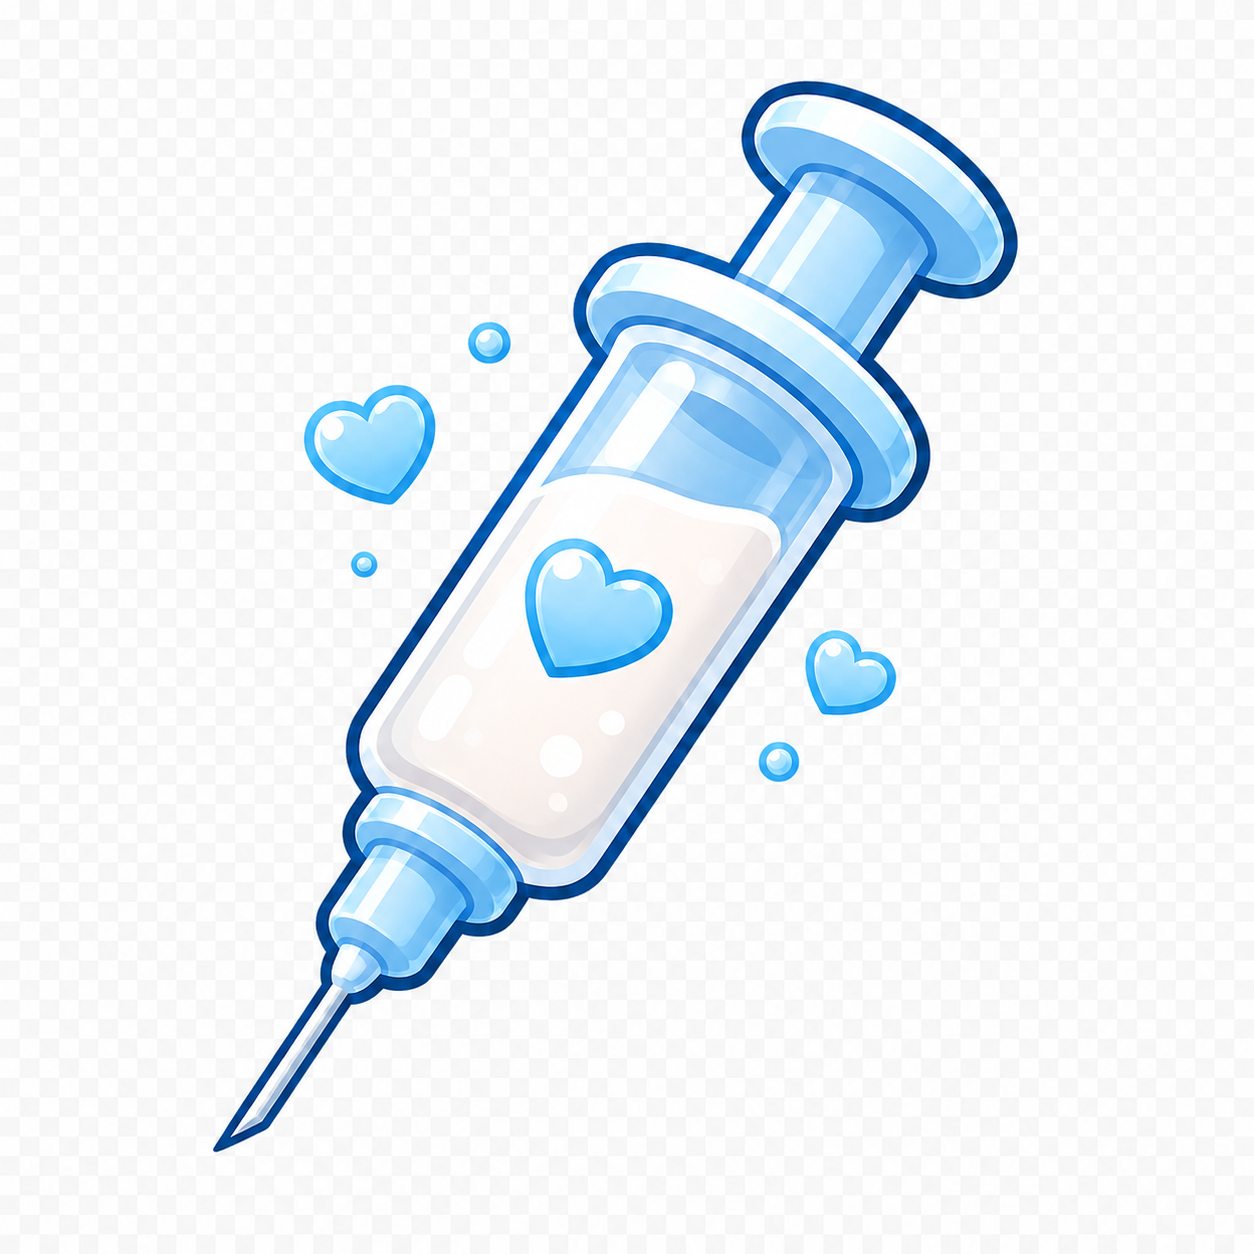
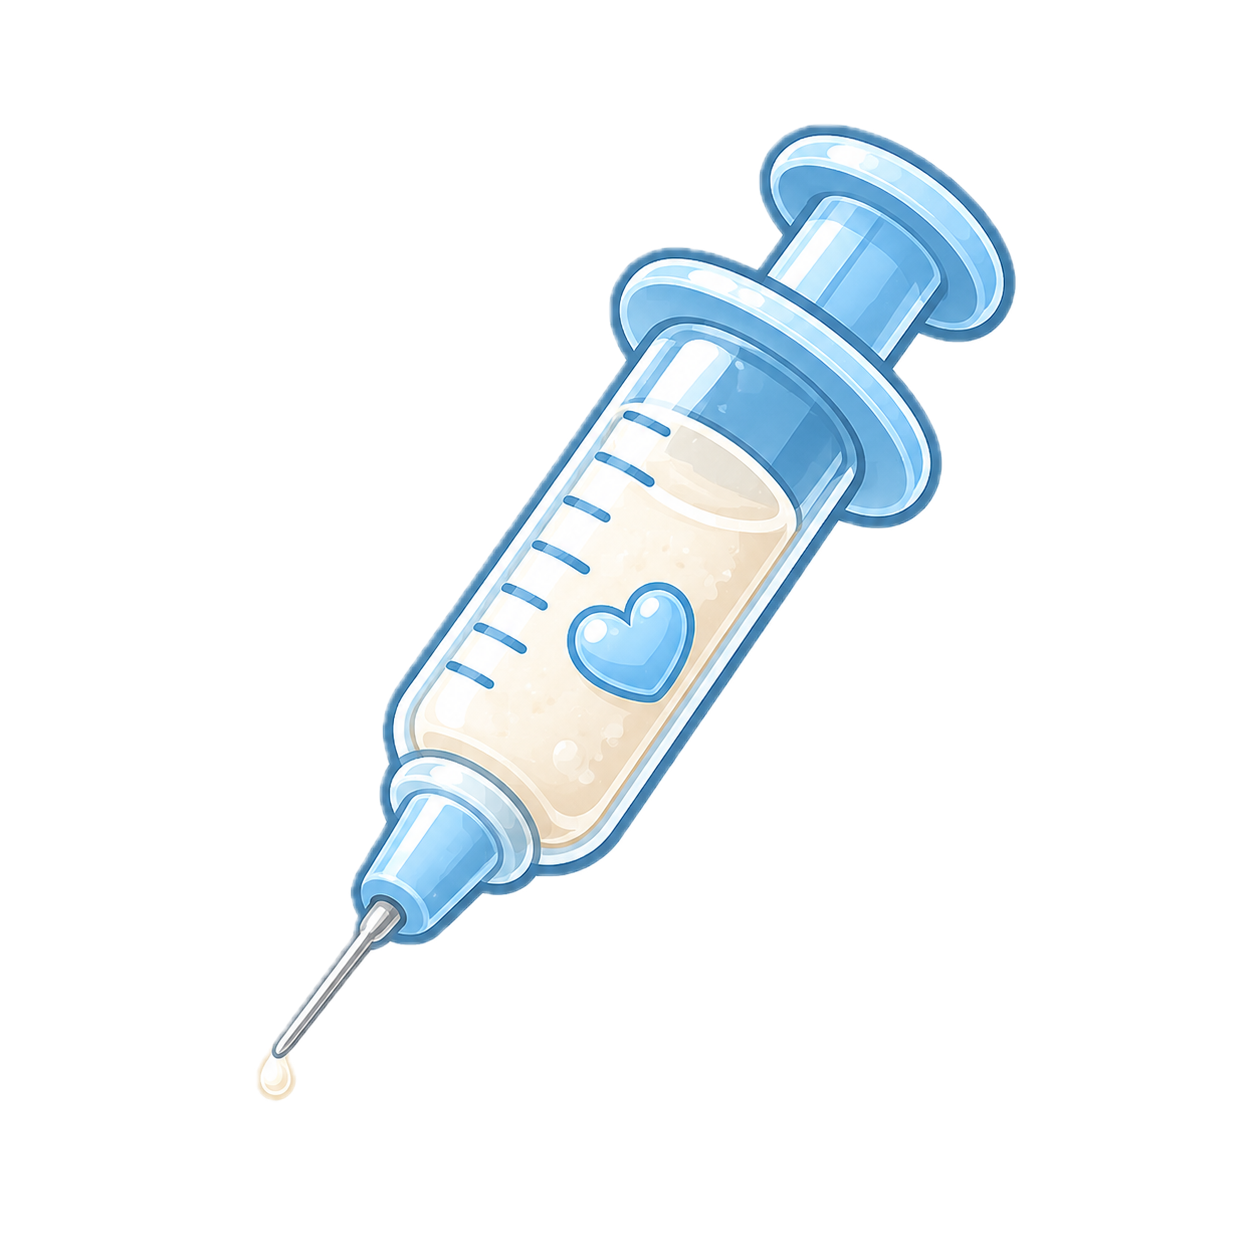
Add PWA update prompt and switch to manual SW registration
Shows "עדכן עכשיו" banner when new version is available, so
users on mobile get notified instead of serving stale cache.

diff --git a/src/App.jsx b/src/App.jsx
@@ -1,4 +1,5 @@
-import { useState } from 'react'
+import { useState, useEffect } from 'react'
+import { useRegisterSW } from 'virtual:pwa-register/react'
 import { useStore } from './store/useStore'
 import { useToast, ToastContainer } from './components/Toast'
 import HomeScreen from './screens/HomeScreen'
@@ -16,6 +17,7 @@ export default function App() {
   const [tab, setTab] = useState('home')
   const { state } = useStore()
   const { toasts, showToast, dismiss } = useToast()
+  const { needRefresh: [needRefresh], updateServiceWorker } = useRegisterSW()
 
   const theme = THEMES[state.colorTheme] || THEMES.blue
 
@@ -32,6 +34,13 @@ export default function App() {
       dir="rtl"
     >
       <ToastContainer toasts={toasts} dismiss={dismiss} />
+
+      {needRefresh && (
+        <div style={{position:'fixed',bottom:90,left:'50%',transform:'translateX(-50%)',zIndex:999,background:'#0096C7',color:'white',borderRadius:16,padding:'12px 20px',display:'flex',alignItems:'center',gap:12,boxShadow:'0 4px 20px rgba(0,0,0,0.2)',fontFamily:'Heebo,sans-serif',whiteSpace:'nowrap'}}>
+          <span style={{fontSize:14,fontWeight:600}}>גרסה חדשה זמינה!</span>
+          <button onClick={() => updateServiceWorker(true)} style={{background:'white',color:'#0096C7',border:'none',borderRadius:10,padding:'6px 14px',fontWeight:700,fontSize:13,cursor:'pointer',fontFamily:'Heebo,sans-serif'}}>עדכן עכשיו</button>
+        </div>
+      )}
 
       <main className="flex-1 overflow-hidden flex flex-col">
         {tab === 'home' && <HomeScreen showToast={showToast} setTab={setTab} />}

diff --git a/vite.config.js b/vite.config.js
@@ -9,7 +9,7 @@ export default defineConfig({
     react(),
     tailwindcss(),
     VitePWA({
-      registerType: 'autoUpdate',
+      registerType: 'prompt',
       includeAssets: ['icons/icon-192.png', 'icons/icon-512.png'],
       manifest: {
         name: 'מעקב תינוק',
